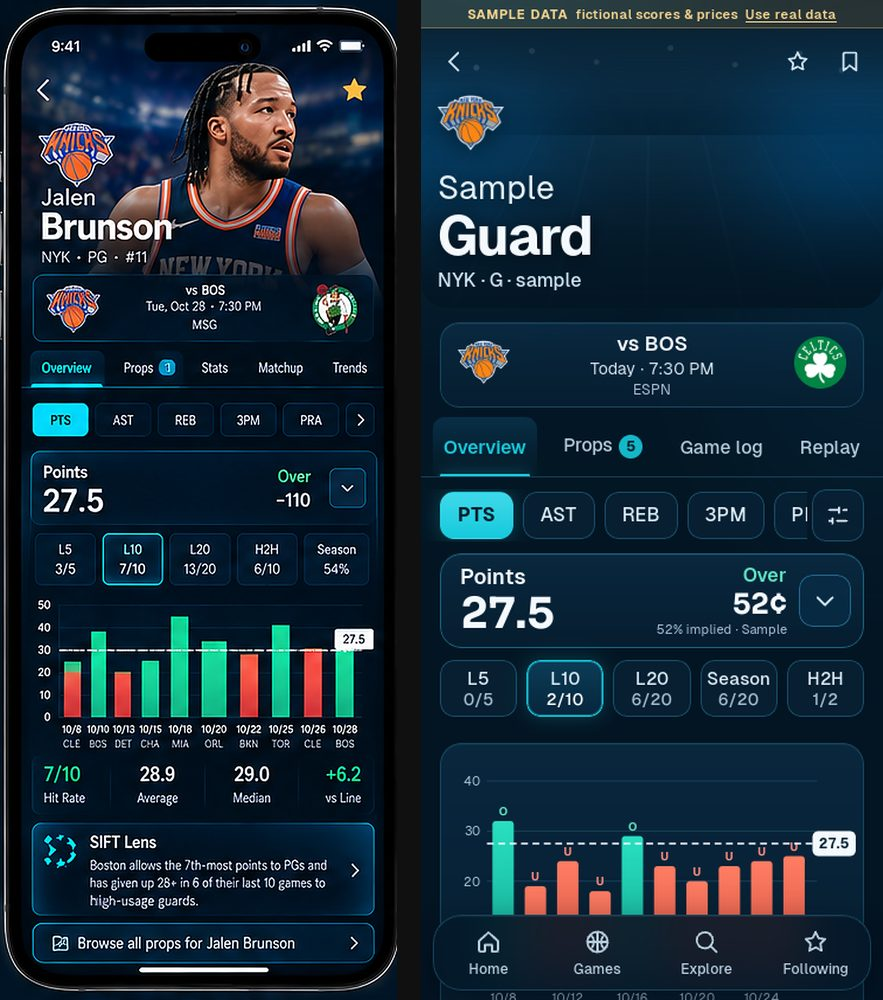
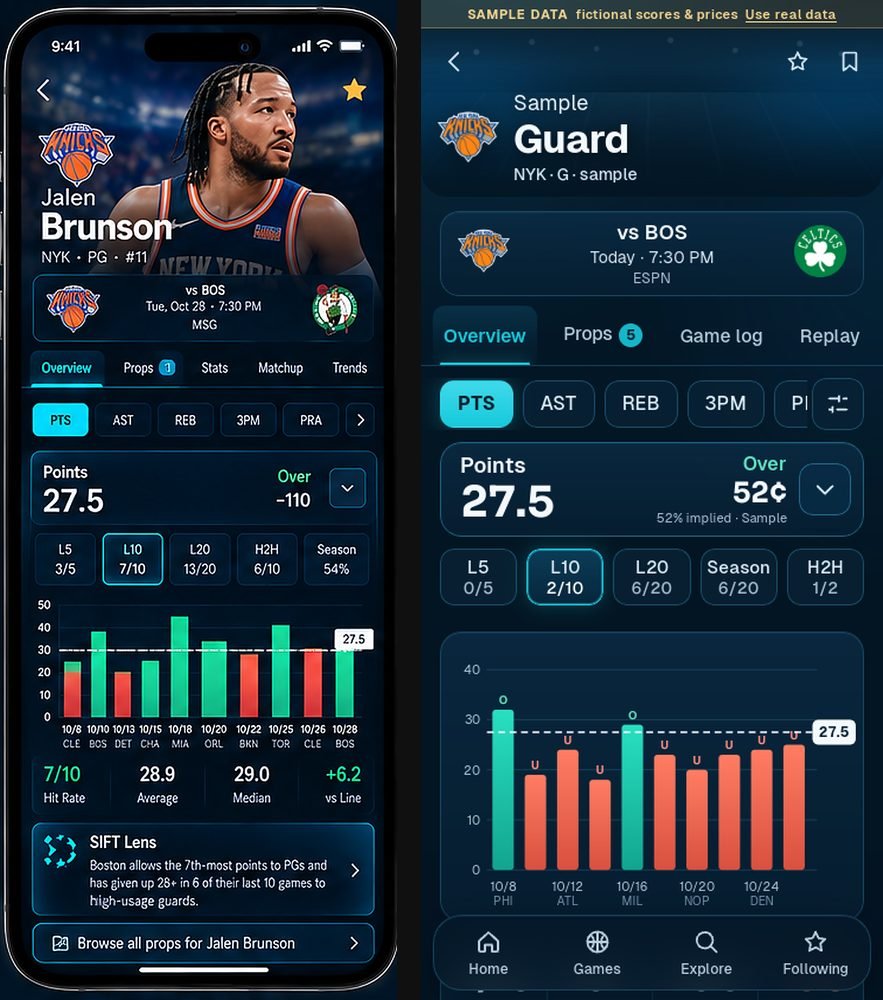
SIFT 3.0 preview: hosted bundle, start page, saved-copy label, compact Player hero
- build:v3-preview now ships a start page (explicit sample / real links, feed check, commit id) plus app.html and the committed
  assets real mode reads (venue and player photographs the resolvers already vet, league identities, NFL research/history)
- v3-qa/preview_check.py verifies a hosted address: assets, navigation, contacted hosts, real data, simulated feed outage
- A bundled saved copy of research is labelled "Saved copy in use" instead of being silent
- Player hero compacted so the chart reaches the first screen; Games cards no longer let long names run under the lines box

Claude-Session: https://claude.ai/code/session_01Mc4z67ryFHctGZsdC88CHf

diff --git a/scripts/v3-preview/start.html b/scripts/v3-preview/start.html
@@ -1,0 +1,56 @@
+<!doctype html>
+<html lang="en">
+<head>
+<meta charset="UTF-8" />
+<meta name="viewport" content="width=device-width, initial-scale=1, viewport-fit=cover" />
+<title>SIFT 3.0 preview</title>
+<meta name="color-scheme" content="dark" />
+<meta name="theme-color" content="#031523" />
+<meta name="robots" content="noindex, nofollow" />
+<style>
+  :root { color-scheme: dark; --bg:#031523; --panel:#072135; --line:#174861; --cyan:#16c9dc; --muted:#8fb0c4; --warn:#f3c969; --ok:#5fe3c1; --bad:#ff7a7a; }
+  * { box-sizing: border-box; }
+  body { margin:0; background: radial-gradient(120% 60% at 50% 0%, #0a3550 0%, var(--bg) 60%); color:#fff; font: 400 16px/1.45 -apple-system, BlinkMacSystemFont, "Segoe UI", Roboto, sans-serif; min-height:100vh;
+    padding: max(20px, env(safe-area-inset-top)) max(16px, env(safe-area-inset-right)) max(24px, env(safe-area-inset-bottom)) max(16px, env(safe-area-inset-left)); }
+  main { max-width: 460px; margin: 0 auto; display: grid; gap: 14px; }
+  h1 { margin: 8px 0 0; font: 800 32px/1.1 -apple-system, "Segoe UI", sans-serif; letter-spacing: -0.02em; }
+  h1 span { color: var(--cyan); }
+  p { margin: 0; color: #cfe0ec; }
+  .tag { display:inline-block; font: 700 12px/1 sans-serif; letter-spacing: .08em; text-transform: uppercase; color:#04202c; background: var(--cyan); padding: 5px 8px; border-radius: 6px; width: fit-content; }
+  a.mode { display:grid; gap:4px; padding: 16px; border-radius: 16px; background: var(--panel); border: 1px solid var(--line); color:#fff; text-decoration:none; min-height:44px; }
+  a.mode b { font-size: 20px; }
+  a.mode small { color: var(--muted); font-size: 14px; line-height: 1.4; }
+  a.mode.real { border-color: rgba(22,201,220,.7); box-shadow: 0 0 0 1px rgba(22,201,220,.25) inset; }
+  a.mode:active { transform: scale(.99); }
+  .box { padding: 14px 16px; border-radius: 14px; border: 1px solid var(--line); background: rgba(7,33,53,.6); font-size: 14px; color: var(--muted); display: grid; gap: 6px; }
+  .box b { color:#fff; font-weight:600; }
+  .ok { color: var(--ok); } .bad { color: var(--bad); } .wait { color: var(--warn); }
+  code { font: 13px ui-monospace, Menlo, monospace; color:#dcecf7; word-break: break-all; }
+  ul { margin: 0; padding-left: 18px; display: grid; gap: 4px; }
+</style>
+</head>
+<body>
+<main>
+  <span class="tag">Design review build</span>
+  <h1>SIFT <span>3.0</span> preview</h1>
+  <p>Not the production app. Nothing here changes SIFT 2.0 / v4, places a bet, or asks for notification permission. Pick a data mode; they never mix.</p>
+
+  <a class="mode" href="app.html#/v3?demo=1"><b>Open with sample data</b><small>Fictional scores, prices and stats so every screen and state can be judged. Always works, even offline. A “Sample data” strip stays on every screen.</small></a>
+  <a class="mode real" href="app.html#/v3?demo=0"><b>Open with real data</b><small>Today’s published SIFT research and Kalshi prices (cents + implied %). If a feed is down a screen says so; it never fills in sample data. Live scores exist only where a free, permitted feed does (NBA); NFL, college football and NHL show “Score unavailable” in play.</small></a>
+
+  <div class="box" id="feeds"><b>Feed check from this address</b><span class="wait" id="f1">Research registry: checking…</span><span class="wait" id="f2">NFL research publication: checking…</span></div>
+  <div class="box"><b>Build</b><span>Commit <code>__SHA__</code>__DIRTY__</span><span>Built __BUILT__ · quotes come from the GitHub quote feed (about every 3 minutes), not the sub-minute relay.</span></div>
+  <p class="box" style="margin:0">Tip: in Safari, Share → Add to Home Screen opens it full screen. Use the in-app back arrows; Safari’s own back also works.</p>
+</main>
+<script>
+  function probe(id, label, url) {
+    var el = document.getElementById(id), c = new AbortController(), t = setTimeout(function () { c.abort(); }, 9000);
+    fetch(url, { cache: 'no-store', signal: c.signal }).then(function (r) { clearTimeout(t);
+      el.className = r.ok ? 'ok' : 'bad'; el.textContent = label + ': ' + (r.ok ? 'reachable' : 'HTTP ' + r.status);
+    }).catch(function () { el.className = 'bad'; el.textContent = label + ': unreachable (real-data mode will show unavailable states)'; });
+  }
+  probe('f1', 'Research registry', 'https://raw.githubusercontent.com/chmoses98/kalshi-bet-router/app-data/app/latest/sports_registry.json');
+  probe('f2', 'NFL research publication', 'https://raw.githubusercontent.com/chmoses98/nfl-edge-finder/handicap-reports/app/latest/explorer/index.json');
+</script>
+</body>
+</html>

diff --git a/src/v3/data/useSlate.tsx b/src/v3/data/useSlate.tsx
@@ -2,7 +2,8 @@
 // list (Back is instant). Real mode reads every published board through the app's opportunity layer; demo mode (explicit,
 // labelled everywhere) reads fixtures. Both produce V3Game[] in the same order: live, then upcoming by start, then
 // awaiting-result, then finals.
-import { createContext, useContext, useMemo, type ReactNode } from 'react';
+import { createContext, useContext, useEffect, useMemo, useState, type ReactNode } from 'react';
+import { resolveSource } from '../../data/source';
 import { useNow } from '../../live/hooks';
 import { useAllOpportunities } from '../../opportunity/load';
 import { gameRows, slateOrder } from '../../views/broadcast/games';
@@ -20,6 +21,8 @@ export interface Slate {
   unavailable: boolean;
   /** Feeds that failed while others loaded. */
   failed: string[];
+  /** Sports whose live publication could not be read and whose research comes from the saved copy bundled with the app (never silent). */
+  saved: { label: string; builtAt: string | null }[];
   now: number;
   demo: boolean;
 }
@@ -58,8 +61,17 @@ function RealProvider({ children }: { children: ReactNode }) {
     return g;
   }).sort(slateCompare), [rows, feedOn, read]);
   const failed = all.bundles.filter((b) => b.error != null);
+  const [saved, setSaved] = useState<Slate['saved']>([]);
+  useEffect(() => {
+    let live = true;
+    // resolveSource is the app's own cached source decision (live publication, else the bundled saved copy); reading it adds no request.
+    Promise.all(all.bundles.filter((b) => b.error == null).map((b) => resolveSource(b.sport).catch(() => null))).then((srcs) => {
+      if (live) setSaved(srcs.filter((x): x is NonNullable<typeof x> => x != null && x.mode === 'snapshot').map((x) => ({ label: x.sport.label, builtAt: x.snapshot?.explorer_built_at ?? null })));
+    });
+    return () => { live = false; };
+  }, [all.bundles]);
   const unavailable = !!all.error || (!all.loading && all.bundles.length > 0 && failed.length === all.bundles.length);
-  const value = useMemo<Slate>(() => ({ games, loading: all.loading, unavailable, failed: failed.map((b) => b.sport.label), now, demo: false }), [games, all.loading, unavailable, failed, now]);
+  const value = useMemo<Slate>(() => ({ games, loading: all.loading, unavailable, failed: failed.map((b) => b.sport.label), saved, now, demo: false }), [games, all.loading, unavailable, failed, saved, now]);
   return <Ctx.Provider value={value}>{children}</Ctx.Provider>;
 }
 
@@ -68,7 +80,7 @@ function DemoProvider({ children }: { children: ReactNode }) {
   const day = new Date(now).toDateString();
   // Fixture kickoffs are fixed clock times on today's date, so the sample slate is the same every time it is opened.
   const games = useMemo(() => demoGames(new Date(day).getTime()).sort(slateCompare), [day]);
-  const value = useMemo<Slate>(() => ({ games, loading: false, unavailable: false, failed: [], now, demo: true }), [games, now]);
+  const value = useMemo<Slate>(() => ({ games, loading: false, unavailable: false, failed: [], saved: [], now, demo: true }), [games, now]);
   return <Ctx.Provider value={value}>{children}</Ctx.Provider>;
 }
 

diff --git a/src/v3/screens/Games.tsx b/src/v3/screens/Games.tsx
@@ -36,7 +36,7 @@ function DateSheet({ day, today, onPick }: { day: string; today: string; onPick:
 }
 
 export function Games() {
-  const { games, loading, unavailable, failed, now } = useSlate();
+  const { games, loading, unavailable, failed, saved, now } = useSlate();
   const follows = useFollows();
   const sheet = useSheet();
   const [sp, setSp] = useSearchParams();
@@ -110,6 +110,7 @@ export function Games() {
 
       {shown.length > 0 && st !== 'final' && <p className="v3-note v3-linesnote">Lines: Kalshi prediction-market prices in ¢, not sportsbook odds.</p>}
       {unavailable && <div className="v3-state v3-state--warn" role="alert"><Icon name="wifiOff" size={20} /><div><b>Published games are unavailable</b>A failed publication does not mean there are no games. Try again in a moment.<br /><button type="button" onClick={() => location.reload()}>Retry</button></div></div>}
+      {saved.length > 0 && <div className="v3-state v3-state--warn" role="status" style={{ marginBottom: 10 }}><Icon name="info" size={20} /><div><b>Saved copy in use</b>{saved.map((x) => x.label).join(', ')} {saved.length === 1 ? 'is' : 'are'} showing the research saved with this app{saved[0].builtAt ? ` (built ${new Date(saved[0].builtAt).toLocaleDateString(undefined, { month: 'short', day: 'numeric' })})` : ''} because the live publication could not be read. Prices and results may be out of date.</div></div>}
       {!unavailable && failed.length > 0 && <div className="v3-state" style={{ marginBottom: 10 }}><Icon name="info" size={20} /><div><b>{failed.length} feed{failed.length === 1 ? '' : 's'} unavailable</b>{failed.join(', ')} could not be read; showing everything else.</div></div>}
       {loading && !games.length && <div role="status" aria-label="Loading games" className="v3-gclist">{[0, 1, 2, 3].map((i) => <div key={i} className="v3-skel v3-gc-skel" />)}</div>}
       {!loading && !unavailable && shown.length === 0 && (

diff --git a/src/v3/screens/Home.tsx b/src/v3/screens/Home.tsx
@@ -126,7 +126,7 @@ const SAMPLE_STORIES = [
 ];
 
 export function Home() {
-  const { games, loading, unavailable, failed, now, demo } = useSlate();
+  const { games, loading, unavailable, failed, saved, now, demo } = useSlate();
   const f = useFollows();
   const sheet = useSheet();
   const alerts = useAlerts();
@@ -167,6 +167,7 @@ export function Home() {
       </div>
 
       {unavailable && <div className="v3-state v3-state--warn" role="alert" style={{ marginTop: 12 }}><Icon name="wifiOff" size={20} /><div><b>Published games are unavailable</b>A failed publication does not mean there are no games.<br /><button type="button" onClick={() => location.reload()}>Retry</button></div></div>}
+      {saved.length > 0 && <div className="v3-state v3-state--warn" role="status" style={{ marginTop: 12 }}><Icon name="info" size={20} /><div><b>Saved copy in use</b>{saved.map((x) => x.label).join(', ')} {saved.length === 1 ? 'is' : 'are'} showing the research saved with this app{saved[0].builtAt ? ` (built ${new Date(saved[0].builtAt).toLocaleDateString(undefined, { month: 'short', day: 'numeric' })})` : ''} because the live publication could not be read. Prices and results may be out of date.</div></div>}
       {!unavailable && failed.length > 0 && <div className="v3-state" style={{ marginTop: 12 }}><Icon name="info" size={20} /><div><b>{failed.length} feed{failed.length === 1 ? '' : 's'} unavailable</b>{failed.join(', ')} could not be read; showing everything else.</div></div>}
 
       {loading && !games.length ? (

diff --git a/src/v3/screens/research.css b/src/v3/screens/research.css
@@ -230,6 +230,14 @@
 .v3-pillrow__f { flex: none; border: 1px solid rgba(26, 82, 110, 0.9); background: rgba(7, 33, 53, 0.82); color: #dcecf7; width: 44px; height: 44px; }
 .v3-pillrow__f.is-on { border-color: var(--sift-cyan); color: var(--sift-cyan); }
 .v3-badge--f { position: absolute; top: -6px; right: -6px; margin: 0; }
-.v3-ph { min-height: 184px; }
+.v3-ph { min-height: 0; padding-bottom: 10px; }
+.v3-ph--photo { min-height: 206px; }
+/* Compact identity (team mark beside the name) keeps the hero short; a verified photograph keeps the taller photo-led hero. */
+.v3-ph:not(.v3-ph--photo) .v3-ph__id { margin-top: 0; grid-template-columns: auto minmax(0, 1fr); column-gap: 12px; align-items: center; }
+.v3-ph:not(.v3-ph--photo) .v3-ph__tm { grid-row: 1 / span 2; margin: 0; }
+.v3-ph:not(.v3-ph--photo) .v3-ph__id h1 { grid-column: 2; }
+.v3-ph:not(.v3-ph--photo) .v3-ph__id h1 small { font-size: 18px; line-height: 22px; }
+.v3-ph:not(.v3-ph--photo) .v3-ph__id h1 b { font-size: 34px; line-height: 38px; }
+.v3-ph:not(.v3-ph--photo) .v3-ph__id p { grid-column: 2; font-size: 14px; line-height: 18px; }
 /* Player research is chart-first: the first screen must reach the chart, so the stack above it is denser than other detail pages. */
 .v3-tabs--player + .v3-gd__body { padding-top: 10px; gap: 10px; }

diff --git a/vite.v3-preview.config.ts b/vite.v3-preview.config.ts
@@ -1,11 +1,17 @@
 import { defineConfig } from 'vite';
 import react from '@vitejs/plugin-react';
+import { execSync } from 'node:child_process';
+
+const git = (c: string): string => { try { return execSync(`git ${c}`, { encoding: 'utf8' }).trim(); } catch { return ''; } };
+// The build id names the exact commit (and says so when the tree had uncommitted changes), shown in Settings and on the start page.
+const sha = process.env.SIFT_PREVIEW_SHA || git('rev-parse HEAD') || 'unknown';
+const dirty = !process.env.SIFT_PREVIEW_SHA && git('status --porcelain -- src package.json') !== '';
 
 // SIFT 3.0 stand-alone preview build (see src/v3/preview/main.tsx). Separate from the production build: its own entry, its own output
 // folder (dist-v3-preview), no PWA, relative base. It changes nothing about `npm run build`.
 export default defineConfig({
   base: './',
-  define: { __SIFT_BUILD__: JSON.stringify('v3-preview') },
+  define: { __SIFT_BUILD__: JSON.stringify(`v3-preview ${sha.slice(0, 7)}${dirty ? '+local' : ''}`) },
   plugins: [react()],
   publicDir: false,
   build: { outDir: 'dist-v3-preview', emptyOutDir: true, rollupOptions: { input: 'v3-preview.html' } },

diff --git a/src/v3/screens/Player.tsx b/src/v3/screens/Player.tsx
@@ -172,7 +172,7 @@ export function Player() {
 
   return (
     <div className="v3-player">
-      <header className="v3-ph">
+      <header className={`v3-ph${vm?.photo ? ' v3-ph--photo' : ''}`}>
         {vm?.team && <HeroBg g={{ away: vm.team, home: vm.team, photo: null }} cover />}
         {vm?.photo && <img className="v3-ph__img" src={vm.photo.src} alt="" style={{ objectPosition: vm.photo.focus }} />}
         <div className="v3-gh__bar">
@@ -186,7 +186,7 @@ export function Player() {
         </div>
         {vm && (
           <div className="v3-ph__id">
-            {vm.team && <Link to={teamHref(vm.team)} className="v3-ph__tm" aria-label={`${vm.team.name}, team page`}><TeamLogo team={vm.team} size={56} /></Link>}
+            {vm.team && <Link to={teamHref(vm.team)} className="v3-ph__tm" aria-label={`${vm.team.name}, team page`}><TeamLogo team={vm.team} size={52} /></Link>}
             <h1><small>{vm.name.split(' ').slice(0, -1).join(' ') || ' '}</small><b>{vm.name.split(' ').slice(-1)[0]}</b></h1>
             <p>{[vm.team?.abbr, vm.position].filter(Boolean).join(' · ')}{vm.provenance === 'demo' ? ' · sample' : ''}</p>
           </div>

diff --git a/src/v3/screens/games.css b/src/v3/screens/games.css
@@ -36,8 +36,8 @@
 .v3-gc__live { display: inline-flex; align-items: center; gap: 5px; color: #ff5a5f; font-weight: 600; }
 .v3-gc__net { color: var(--sift-dim); margin-left: auto; margin-right: 38px; }
 .v3-gc__b { display: grid; grid-template-columns: minmax(0, 1fr) auto 44px; gap: 8px; align-items: center; }
-.v3-gc__sides { display: grid; gap: 0; min-width: 0; }
-.v3-gc__side { display: flex; align-items: center; justify-content: space-between; gap: 8px; min-height: 32px; }
+.v3-gc__sides { display: grid; grid-template-columns: minmax(0, 1fr); gap: 0; min-width: 0; }
+.v3-gc__side { display: flex; align-items: center; justify-content: space-between; gap: 8px; min-height: 32px; min-width: 0; }
 .v3-gc__team { display: inline-flex; align-items: center; gap: 12px; min-width: 0; flex: 1 1 auto; overflow: hidden; min-height: 44px; margin: -6px 0; }
 .v3-gc__nm { font: 600 16px/20px var(--f-ui); letter-spacing: -0.005em; white-space: nowrap; overflow: hidden; text-overflow: ellipsis; min-width: 0; }
 .v3-gc__nm small { font: 500 12px/1 var(--f-ui); color: var(--sift-dim); margin-right: 5px; vertical-align: 2px; }

diff --git a/src/v3/screens/Settings.tsx b/src/v3/screens/Settings.tsx
@@ -36,6 +36,7 @@ export function Settings() {
           <a href={demo ? '#/v3?demo=0' : '#/v3?demo=1'} style={{ color: 'var(--sift-cyan)' }}>{demo ? 'Switch to real data' : 'Preview with sample data'}</a></div></div>
         <button type="button" className="v3-btn v3-btn--ghost" onClick={() => { if (confirm('Remove follows, alerts, saved research and recents from this device?')) clearAllLocal(); }}>Clear data on this device</button>
         <p className="v3-note v3-note--dim">Everything you follow, save or choose stays on this device. No account is needed.</p>
+        <p className="v3-note v3-note--dim">Build {__SIFT_BUILD__} · {demo ? 'sample data' : 'real data'}</p>
       </section>
     </div>
   );

diff --git a/v3-preview.html b/v3-preview.html
@@ -6,6 +6,9 @@
     <title>SIFT 3.0 preview</title>
     <meta name="color-scheme" content="dark" />
     <meta name="theme-color" content="#031523" />
+    <meta name="apple-mobile-web-app-capable" content="yes" />
+    <meta name="apple-mobile-web-app-title" content="SIFT 3.0" />
+    <meta name="robots" content="noindex, nofollow" />
   </head>
   <body style="margin:0;background:#031523">
     <div id="root"></div>

diff --git a/scripts/v3-qa/preview_check.py b/scripts/v3-qa/preview_check.py
@@ -1,0 +1,107 @@
+"""Verify a HOSTED SIFT 3.0 preview (start page, sample mode, real-data mode, feed outage) in WebKit.
+   QA_BASE=http://127.0.0.1:8766/sift3-preview/app.html python3 scripts/v3-qa/preview_check.py http://127.0.0.1:8766/sift3-preview/ OUTDIR"""
+import sys, os, json, time
+sys.path.insert(0, os.path.dirname(os.path.abspath(__file__)))
+from qa import QA
+from wk import driver
+ROOT = sys.argv[1].rstrip('/') + '/'; OUT = sys.argv[2]; os.makedirs(OUT, exist_ok=True)
+R = []
+def check(name, cond, extra=''):
+    R.append((name, bool(cond), str(extra))); print(('PASS ' if cond else 'FAIL ') + name + ('' if cond else ' — ' + str(extra)))
+
+# ---------- 1. start page, loaded directly (not in the harness): it is what the phone opens first
+d = driver(390, 844)
+try:
+    d.get(ROOT); time.sleep(14)
+    txt = d.execute_script('return document.body.innerText')
+    check('S1 start page offers sample and real data as separate links', 'Open with sample data' in txt and 'Open with real data' in txt)
+    hrefs = d.execute_script('return [...document.querySelectorAll("a.mode")].map(a=>a.getAttribute("href"))')
+    check('S2 links are explicit about the data mode', hrefs == ['app.html#/v3?demo=1', 'app.html#/v3?demo=0'], hrefs)
+    check('S3 commit id is shown', len(d.execute_script('return document.querySelector("code").textContent')) == 40)
+    f1, f2 = d.execute_script('return [document.getElementById("f1").textContent, document.getElementById("f2").textContent]')
+    check('S4 feed check from this address: research registry reachable', 'reachable' in f1 and 'unreachable' not in f1, f1)
+    check('S5 feed check from this address: NFL publication reachable', 'reachable' in f2 and 'unreachable' not in f2, f2)
+    check('S6 start page has no horizontal scroll', d.execute_script('return document.documentElement.scrollWidth <= innerWidth'))
+    d.save_screenshot(OUT + '/start.png')
+finally:
+    d.quit()
+
+HOSTS = 'return [...new Set(performance.getEntriesByType("resource").map(e=>new URL(e.name).host))]'
+BADIMG = 'return [...document.images].filter(i=>i.complete && i.naturalWidth===0).map(i=>i.src)'
+q = QA(390, 844)
+try:
+    # ---------- 2. sample mode from the hosted address
+    q.open('/v3?demo=1', settle=9)
+    t = q.js('return document.body.innerText')
+    check('M1 sample mode shows the SAMPLE DATA strip', 'SAMPLE DATA' in t)
+    check('M2 four tabs only', q.js('return document.querySelectorAll(".v3-nav a, nav a").length') == 4, q.js('return document.querySelectorAll(".v3-nav a, nav a").length'))
+    for route in ['/v3?demo=1', '/v3/games', '/v3/game/cfb/demo_uga_fla', '/v3/team/cfb/UGA', '/v3/stat/nfl/sample-0', '/v3/player/nba/sample-guard', '/v3/explore', '/v3/following', '/v3/settings']:
+        q.open(route, settle=4)
+        hosts = q.js(HOSTS); bad = q.js(BADIMG)
+        check(f'M3 sample {route}: only this host is contacted, no broken image', hosts == [hosts[0]] and not bad and 'SAMPLE DATA' in q.js('return document.body.innerText'), (hosts, bad[:3]))
+        check(f'M4 sample {route}: no horizontal overflow', q.js('return document.documentElement.scrollWidth <= innerWidth'))
+    fonts = q.js('return [document.fonts.check("16px Geist"), document.fonts.check("700 40px Sora")]')
+    check('M5 Geist and Sora load from the bundle', fonts == [True, True], fonts)
+    q.open('/v3/settings', settle=3)
+    check('M6 Settings shows build id and sample mode', 'v3-preview' in q.js('return document.body.innerText') and 'sample data' in q.js('return document.body.innerText'))
+
+    # ---------- 3. real data from the hosted address
+    q.open('/v3?demo=0', settle=2)
+    q.js('localStorage.setItem("sift3.prefs", JSON.stringify({priceFormat:"cents",reduceMotion:false,textScale:"default",onboarded:true}))')
+    q.open('/v3?demo=0', settle=18)
+    t = q.js('return document.body.innerText')
+    check('R1 real mode: no SAMPLE DATA strip, no sample tickers', 'SAMPLE DATA' not in t and 'SAMPLE-' not in t)
+    hosts = q.js(HOSTS)
+    check('R2 real mode contacts the published research host', any('raw.githubusercontent.com' in h for h in hosts), hosts)
+    q.shot(OUT + '/real_home.png')
+    q.open('/v3/games?demo=0', settle=14)
+    cards = q.js('return document.querySelectorAll(".v3-gc").length')
+    check('R3 real Games lists published games', cards > 0, cards)
+    q.shot(OUT + '/real_games.png')
+    clash = q.js('return [...document.querySelectorAll(".v3-gc")].filter(c=>{const l=c.querySelector(".v3-lines, .v3-gc__nolines, [class*=lines]");return l && [...c.querySelectorAll(".v3-gc__nm")].some(n=>n.getBoundingClientRect().right>l.getBoundingClientRect().left+1)}).length')
+    check('R3b real Games: no team name runs under the lines box', clash == 0, clash)
+    q.open('/v3/games?sport=nfl&demo=0', settle=12)
+    q.js('document.querySelector(".v3-gc__hit")?.click()')
+    q.wait(8)
+    h = q.js('return location.hash')
+    check('R4 real: a card opens a real Game Detail', '/v3/game/nfl/' in h, h)
+    t = q.js('return document.body.innerText')
+    check('R5 real Game Detail has no sample content', 'SAMPLE DATA' not in t and 'SAMPLE-' not in t and 'Sample' not in t, '')
+    check('R5b real Game Detail renders its hero and tabs', q.js('return !!document.querySelector(".v3-gh") && document.querySelectorAll(".v3-tabs button").length >= 3'))
+    nfl_hash = q.js('return location.hash')
+    for tab in ['props', 'matchup']:
+        q.open(nfl_hash.replace('#', '').split('?')[0] + '?tab=' + tab, settle=9)
+        check(f'R5c real Game Detail tab {tab} renders without sample content', q.js('return !!document.querySelector(".v3-gd__body")') and 'SAMPLE-' not in q.js('return document.body.innerText'))
+    q.shot(OUT + '/real_game.png')
+    q.open('/v3/settings', settle=3)
+    check('R6 Settings says real published data', 'Showing real published data' in q.js('return document.body.innerText'))
+    bad = q.js(BADIMG)
+    check('R7 no broken images in real mode', not bad, bad[:3])
+    # real score-source labelling on the live-state list
+    q.open('/v3/games?state=live&demo=0', settle=12)
+    t = q.js('return document.body.innerText')
+    check('R8 real score-source note present when games are in play (or none live)', ('licensed score feed' in t) or q.js('return document.querySelectorAll(".v3-gc").length') == 0, t[:200])
+    q.shot(OUT + '/real_live.png')
+    # ---------- 4. feed outage from a copy of the app whose fetches to the research/score hosts fail
+    import re
+    app = open(os.environ['PREVIEW_DIR'] + '/app.html').read()
+    inject = '<script>(function(){var f=window.fetch;window.fetch=function(u){var s=String(u&&u.url||u);if(/raw\\.githubusercontent|sportscore/.test(s))return Promise.reject(new TypeError("simulated outage"));return f.apply(this,arguments)}})()</script>'
+    open(os.environ['PREVIEW_DIR'] + '/app-outage.html', 'w').write(app.replace('<head>', '<head>' + inject, 1))
+    try:
+        base = os.environ['QA_BASE']; import qa as _qa; _qa.BASE = base.replace('app.html', 'app-outage.html')
+        q.open('/v3?demo=0', settle=14)
+        t = q.js('return document.body.innerText')
+        check('O1 outage: real mode shows no sample data', 'SAMPLE DATA' not in t and 'SAMPLE-' not in t and 'Sample' not in t, t[:160])
+        check('O2 outage: the app says data is unavailable, not blank', bool(re.search(r"unavailable|couldn.t load|not available|offline|try again|No games", t, re.I)), t[:300])
+        check('O4 outage: the bundled saved copy is labelled, never silent', 'Saved copy in use' in t, t[:200])
+        q.shot(OUT + '/outage_home.png')
+        q.open('/v3/games?demo=0', settle=10)
+        t = q.js('return document.body.innerText')
+        check('O3 outage Games: no sample, honest empty/unavailable state', 'SAMPLE' not in t.upper() and q.js('return document.querySelectorAll(".v3-gc").length') == 0, t[:240])
+        q.shot(OUT + '/outage_games.png')
+    finally:
+        os.remove(os.environ['PREVIEW_DIR'] + '/app-outage.html')
+finally:
+    q.close()
+json.dump(R, open(OUT + '/preview_check.json', 'w'), indent=1)
+print('\n%d/%d passed' % (sum(1 for r in R if r[1]), len(R)))

diff --git a/scripts/v3-qa/qa.py b/scripts/v3-qa/qa.py
@@ -5,7 +5,7 @@ sys.path.insert(0, __import__('os').path.dirname(__import__('os').path.abspath(_
 from wk import driver
 
 HARNESS = 'http://127.0.0.1:8765/frame.html'  # python3 -m http.server 8765 in a folder holding frame.html
-BASE = 'http://localhost:5173/sift-sports-intelligence/'
+BASE = __import__('os').environ.get('QA_BASE', 'http://localhost:5173/sift-sports-intelligence/')
 
 class QA:
     def __init__(self, w=390, h=844):
